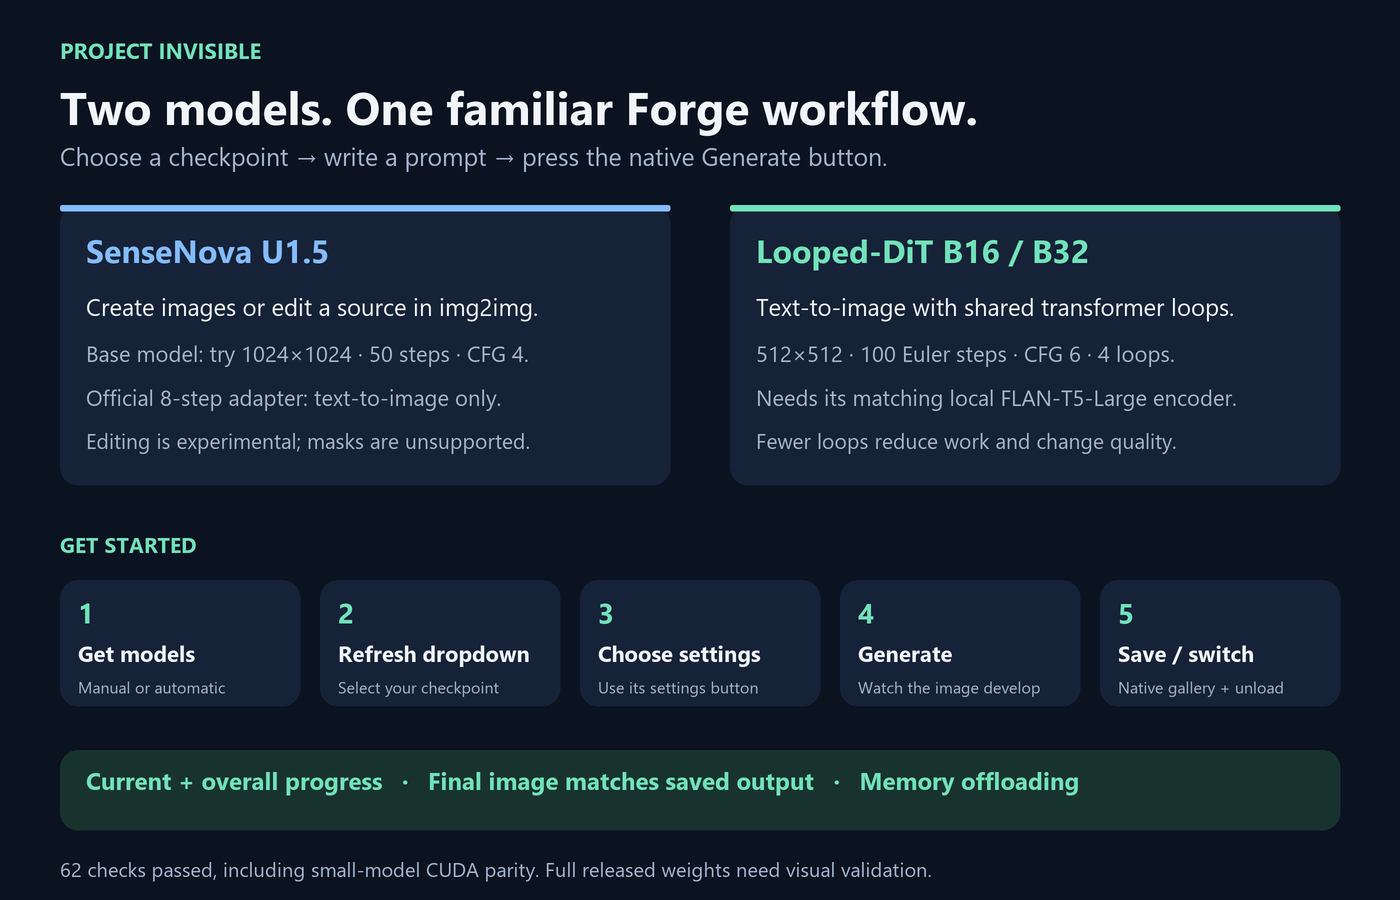
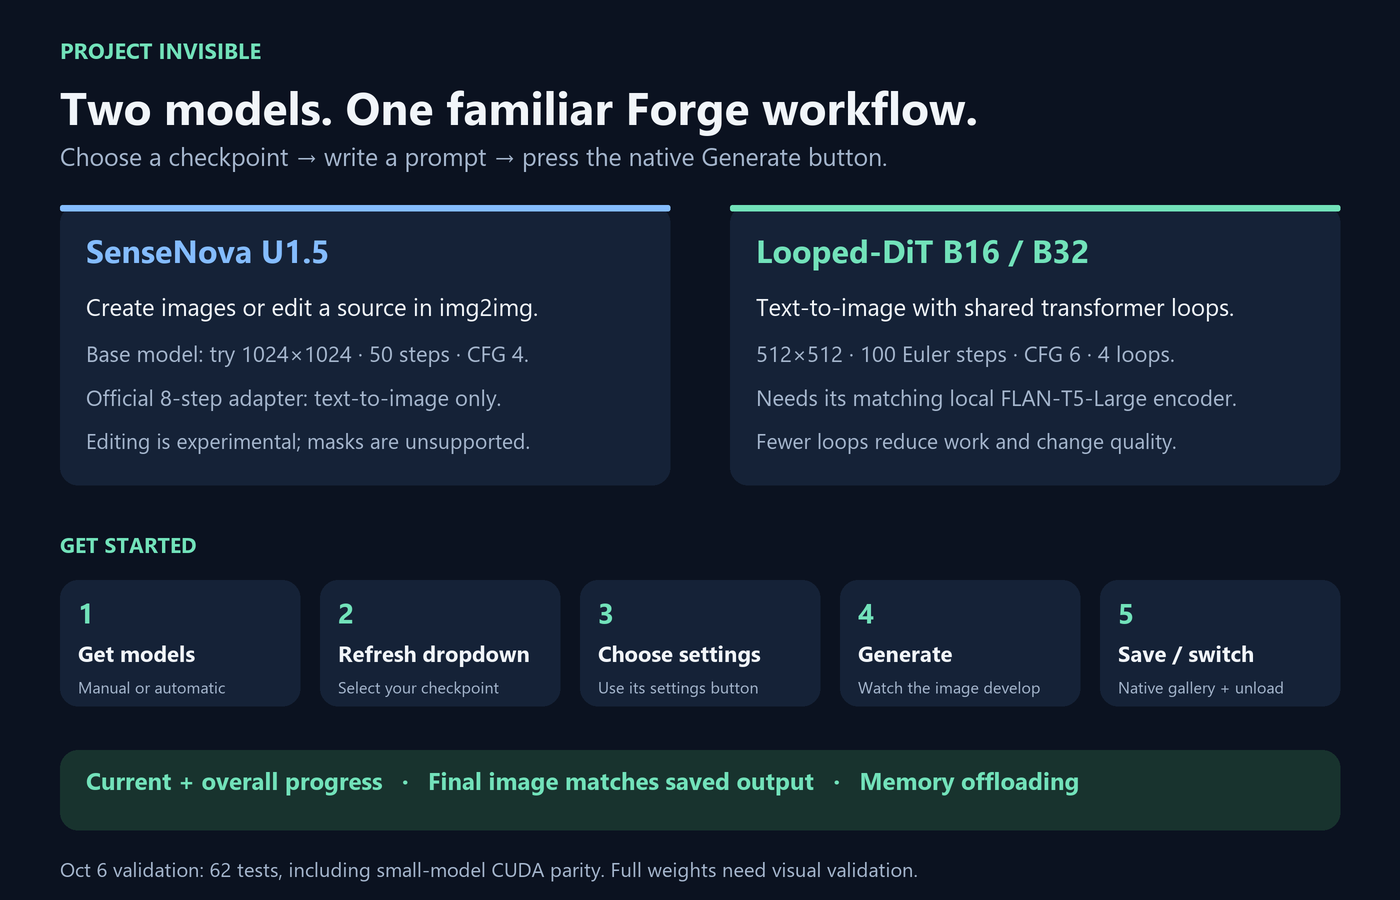
Refresh README and current SenseNova/Looped-DiT UI guides

Changed region(s): [[0.0614, 0.9644, 0.6757, 0.9956]]

diff --git a/docs/build_visuals.py b/docs/build_visuals.py
@@ -1,0 +1,104 @@
+from pathlib import Path
+from html import escape
+from PIL import Image, ImageDraw, ImageFont
+
+OUT = Path(__file__).resolve().parent / 'assets'
+OUT.mkdir(parents=True, exist_ok=True)
+BG, CARD, INK, MUTED, BLUE, GREEN = '#0b1220', '#152237', '#f1f5f9', '#a4b5cc', '#84bcff', '#72e2ba'
+
+class Visual:
+    def __init__(self, title, description, height=900):
+        self.height = height
+        self.image = Image.new('RGB', (2800, height*2), BG)
+        self.draw = ImageDraw.Draw(self.image)
+        self.svg = [f'<svg xmlns="http://www.w3.org/2000/svg" width="1400" height="{height}" viewBox="0 0 1400 {height}" role="img" aria-labelledby="title desc"><title id="title">{escape(title)}</title><desc id="desc">{escape(description)}</desc><rect width="1400" height="{height}" fill="{BG}"/>']
+    def rect(self, x, y, w, h, color=CARD, radius=18):
+        self.draw.rounded_rectangle((x*2,y*2,(x+w)*2,(y+h)*2), radius=radius*2, fill=color)
+        self.svg.append(f'<rect x="{x}" y="{y}" width="{w}" height="{h}" rx="{radius}" fill="{color}"/>')
+    def text(self, x, y, value, size=24, color=INK, bold=False):
+        try:
+            font = ImageFont.truetype('C:/Windows/Fonts/'+('segoeuib.ttf' if bold else 'segoeui.ttf'), size*2)
+        except OSError:
+            font = ImageFont.truetype('DejaVuSans-Bold.ttf' if bold else 'DejaVuSans.ttf', size*2)
+        self.draw.text((x*2,y*2), value, font=font, fill=color)
+        self.svg.append(f'<text x="{x}" y="{y+size}" fill="{color}" font-family="Segoe UI,Arial,sans-serif" font-size="{size}" font-weight="{700 if bold else 400}">{escape(value)}</text>')
+    def save(self, name):
+        self.image.resize((1400,self.height), Image.Resampling.LANCZOS).save(OUT/(name+'.png'), optimize=True)
+        (OUT/(name+'.svg')).write_text('\n'.join(self.svg+['</svg>'])+'\n', encoding='utf-8', newline='\n')
+
+v = Visual('Project Invisible: SenseNova and Looped-DiT', 'Model comparison, workflow and validation for the native Forge Neo extension.')
+v.text(60,35,'PROJECT INVISIBLE',22,GREEN,True)
+v.text(60,75,'Two models. One familiar Forge workflow.',46,INK,True)
+v.text(60,139,'Choose a checkpoint → write a prompt → press the native Generate button.',25,MUTED)
+for x,title,color in ((60,'SenseNova U1.5',BLUE),(730,'Looped-DiT B16 / B32',GREEN)):
+    v.rect(x,205,610,280)
+    v.rect(x,205,610,6,color,2)
+    v.text(x+26,228,title,32,color,True)
+v.text(86,290,'Create images or edit a source in img2img.',24)
+v.text(86,338,'Base model: try 1024×1024 · 50 steps · CFG 4.',22,MUTED)
+v.text(86,382,'Official 8-step adapter: text-to-image only.',22,MUTED)
+v.text(86,426,'Editing is experimental; masks are unsupported.',21,MUTED)
+v.text(756,290,'Text-to-image with shared transformer loops.',24)
+v.text(756,338,'512×512 · 100 Euler steps · CFG 6 · 4 loops.',22,MUTED)
+v.text(756,382,'Needs its matching local FLAN-T5-Large encoder.',22,MUTED)
+v.text(756,426,'Fewer loops reduce work and change quality.',21,MUTED)
+v.text(60,530,'GET STARTED',21,GREEN,True)
+steps=[('1','Get models','Manual or automatic'),('2','Refresh dropdown','Select your checkpoint'),('3','Choose settings','Use its settings button'),('4','Generate','Watch the image develop'),('5','Save / switch','Native gallery + unload')]
+for i,(number,title,detail) in enumerate(steps):
+    x=60+i*260
+    v.rect(x,580,240,126)
+    v.text(x+18,593,number,28,GREEN,True)
+    v.text(x+18,638,title,22,INK,True)
+    v.text(x+18,676,detail,16,MUTED)
+v.rect(60,750,1280,80,'#18332e')
+v.text(86,764,'Current + overall progress   ·   Final image matches saved output   ·   Memory offloading',24,GREEN,True)
+v.text(60,855,'Oct 6 validation: 62 tests, including small-model CUDA parity. Full weights need visual validation.',20,MUTED)
+v.save('integration-overview')
+
+def ui_guide(looped):
+    label='Looped-DiT B16 / B32' if looped else 'SenseNova U1.5'
+    v=Visual(label+' UI guide','Illustrated current Forge controls; not a screenshot.',1100)
+    v.text(60,30,'PROJECT INVISIBLE / CURRENT UI GUIDE',22,GREEN,True)
+    v.text(60,75,label+' in the native Forge workflow',42,INK,True)
+    v.text(60,134,'Illustrated guide, not a live screenshot. Control labels match the extension; placement may vary.',21,MUTED)
+    v.rect(60,190,1280,86)
+    v.text(82,203,'Native checkpoint dropdown',18,MUTED)
+    v.text(82,235,'Looped-DiT / looped-dit-b16' if looped else 'Your SenseNova U1.5 checkpoint',25,BLUE,True)
+    v.text(874,232,'Refresh',21,MUTED)
+    v.rect(1110,209,204,47,'#235239',10)
+    v.text(1142,215,'Generate',25,GREEN,True)
+    v.rect(60,299,745,702)
+    v.rect(82,318,126,42,'#254665',8)
+    v.text(105,324,'txt2img',23,BLUE,True)
+    v.text(237,324,'img2img / U1.5 editing only',21,MUTED)
+    v.text(82,380,'Prompt',18,MUTED)
+    v.rect(82,414,699,74,'#0d1829',8)
+    v.text(98,430,'Describe your image, or the edit in img2img.',23)
+    v.text(82,515,'512 x 512 / 100 steps / CFG 6' if looped else '1024 x 1024 / 50 steps / CFG 4',23,BLUE,True)
+    v.text(82,554,'SenseNova - Project Invisible',24,INK,True)
+    v.text(82,593,'Natural photo details: off with Looped-DiT preset' if looped else 'Natural photo details: optional prompt instructions',21,MUTED)
+    v.rect(82,635,699,48,'#235239',8)
+    v.text(100,645,'Use Looped-DiT settings (inside Advanced)' if looped else 'Use photo quality settings / 50 steps / CFG 4',22,GREEN,True)
+    v.text(82,707,'Advanced / optional controls',23,INK,True)
+    rows=['Looped-DiT depth: 4 (1-16 available)','Local resources: matching FLAN-T5-Large folder','Memory mode: Auto / Full / offload options','U1.5 fast adapter and Think must be disabled'] if looped else ['DeGrid / off by default     Memory mode / Auto','8-step speed adapter / txt2img only (local LoRA)','Local resources folder / U1.5 config and tokenizer','Think / optional     Timestep shift / default 3']
+    for i,row in enumerate(rows): v.text(82,751+i*40,row,20,MUTED)
+    v.text(82,938,'Unload SenseNova / releases either engine',21,BLUE)
+    v.rect(828,299,512,462)
+    v.text(850,320,'Native live preview / gallery',23,INK,True)
+    v.rect(850,365,468,210,'#243447',10)
+    v.text(907,441,'Image develops here',25,MUTED,True)
+    v.text(923,483,'Illustrated preview area',19,MUTED)
+    v.text(850,605,'Current image / illustrative 32%',19,BLUE)
+    v.rect(850,641,468,14,'#0d1829',6)
+    v.rect(850,641,150,14,BLUE,6)
+    v.text(850,680,'Overall generation / illustrative 8%',19,GREEN)
+    v.rect(850,716,468,14,'#0d1829',6)
+    v.rect(850,716,38,14,GREEN,6)
+    v.rect(828,787,512,214)
+    v.text(850,803,'Get models / manual or automatic',22,INK,True)
+    for i,row in enumerate(['1. Select a model from the list','2. Manual: follow the download guide','3. Automatic: Download selected model','4. Refresh the checkpoint dropdown']):
+        v.text(850,847+i*36,row,20,MUTED)
+    v.text(60,1035,'U1.5 editing is experimental. Looped-DiT: text-to-image only. Hires fix and masks are unsupported.',20,MUTED)
+    v.save('ui-guide' if looped else 'ui-guide-u15')
+ui_guide(False)
+ui_guide(True)

diff --git a/README.md b/README.md
@@ -4,14 +4,66 @@ Select a SenseNova checkpoint in the normal Forge dropdown and press the
 normal Generate button. No discarded Stable Diffusion pass, second app,
 package upgrades or changes to Forge core.
 
+## Model settings at a glance
+
+![SenseNova and Looped-DiT workflow infographic](docs/assets/integration-overview.png)
+
+| Choose | Use | Starting settings | Resources |
+| --- | --- | --- | --- |
+| SenseNova U1.5 base | txt2img; experimental instruction editing in img2img | 1024 x 1024, 50 steps, CFG 4 | Matching U1.5 config/tokenizer |
+| U1.5 official 8-step adapter | txt2img only | 8 steps, CFG 1; enable Fast | Base model plus official 8-step LoRA |
+| Looped-DiT B16 / B32 | txt2img only | 512 x 512, 100 steps, CFG 6, loop depth 4 | Complete local FLAN-T5-Large |
+
+Use the native checkpoint dropdown, Generate button, batch controls and gallery.
+The external VAE/TE selector is hidden only while this extension owns the selected
+checkpoint. Other models keep their normal controls.
+
+## Current UI
+
+Open **SenseNova - Project Invisible** in txt2img or img2img.
+The primary controls are **Natural photo details** and **Use photo quality settings**.
+Memory, DeGrid, adapters and Looped-DiT controls live in **Advanced**.
+The loop-depth control and its settings button appear only for Looped-DiT.
+
+### SenseNova U1.5
+
+![SenseNova U1.5 current UI guide](docs/assets/ui-guide-u15.png)
+
+For all editing, use the native **img2img** source and describe the change.
+Disable the 8-step speed adapter for editing. Natural photo details add prompt
+instructions; they do not retouch pixels or guarantee realism.
+
+### Looped-DiT
+
+![Looped-DiT current UI guide](docs/assets/ui-guide.png)
+
+Select Looped-DiT and click **Advanced > Use Looped-DiT settings**.
+This sets width/height, steps, CFG and loop depth, disables Natural photo details,
+Fast and Think, and clears the U1.5 adapter path.
+
+The pictures are **illustrated guides, not live screenshots**. Exact positions
+vary by Forge version. [PNG and editable SVG originals](docs/assets) are included.
+Optional diagram regeneration requires Pillow: run **python docs/build_visuals.py**.
+
+## Download models
+
+Open **Get models - manual or automatic**, select the model, then choose:
+
+- **Manual (recommended)**: use the displayed links and folders.
+- **Automatic**: press **Download selected model**. Downloads start only on request.
+
+Refresh the checkpoint list after setup. Generation uses local model files.
+Two progress bars report the current image and the full batch. Enabled previews
+update at most once per second when a new step is available; the exact finished
+image is published after final processing. **Unload SenseNova** releases either
+engine. Switching checkpoints requests release at the next safe cancellation point.
+
+Documentation and UI guides refreshed **October 7, 2026**.
+Validation recorded on October 6: 62 tests, including small-model CUDA sampling
+parity. This is not a full released-weight visual quality or speed benchmark.
+
 ## Install
 
-![SenseNova and Looped-DiT integration infographic](docs/assets/integration-overview.png)
-
-![Illustrated Forge UI guide with checkpoint selection and two progress bars](docs/assets/ui-guide.png)
-
-The UI image is an illustrated guide; placement varies by Forge version.
-Editable SVG versions are in [`docs/assets`](docs/assets).
 
 1. Download this repository using **Code → Download ZIP**.
 2. Extract it into Forge Neo’s `extensions` folder. Keep only one SenseNova extension installed.
@@ -42,8 +94,8 @@ config/tokenizer files in the checkpoint's folder or its `SenseNova-resources`
 subfolder. You can explicitly choose a resources folder in Advanced.
 Complete HF snapshots also appear in the normal dropdown.
 
-Open **Get models · manual or automatic** to choose the official U1.5 model or
-community Q8 GGUF. Manual download is the default. Automatic download begins only
+Open **Get models · manual or automatic** to choose official U1.5, community Q8 GGUF,
+or Looped-DiT B16/B32. Manual download is the default. Automatic download begins only
 after you click **Download selected model**; it also retrieves GGUF resources when
 needed. Existing files are kept. Refresh the checkpoint dropdown after downloading.
 
